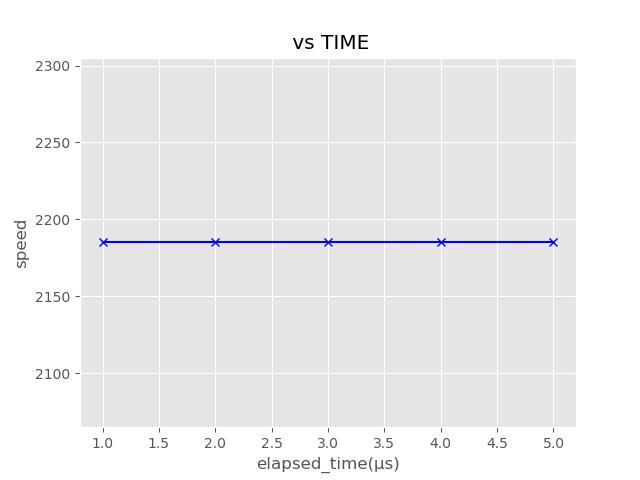
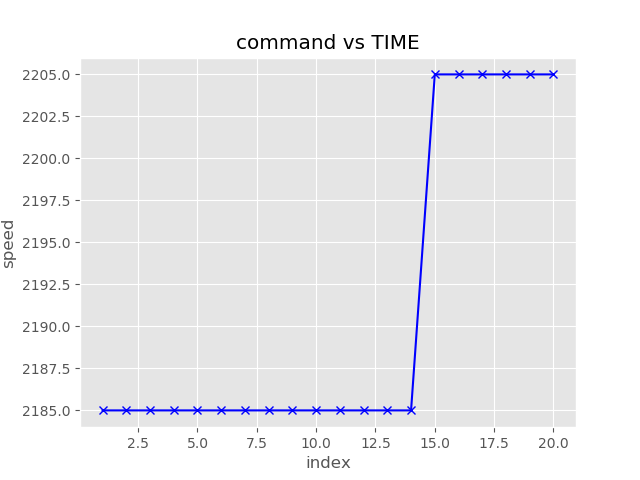
Finished: save plot after new data acquisition

diff --git a/NewRecordingMenu.py b/NewRecordingMenu.py
@@ -36,13 +36,13 @@ class NewRecordingMenu(tk.Frame):
         self.startStopFrame = tk.LabelFrame(self, text="START/STOP RECORDING", padx=5, pady=5)
         self.startStopFrame.pack(padx=10, pady=10)
 
-        self.startRecordingButton = tk.Button(self.startStopFrame, text='START', width=30, height=3,
+        self.startRecordingButton = tk.Button(self.startStopFrame, text='START', width=20, height=3,
                                               command=lambda: self.start_recording())
-        self.startRecordingButton.pack(side=tk.LEFT)
+        self.startRecordingButton.grid(row=0, column=0)
 
-        self.stopRecordingButton = tk.Button(self.startStopFrame, text='STOP', width=30, height=3, state=tk.DISABLED,
+        self.stopRecordingButton = tk.Button(self.startStopFrame, text='STOP', width=20, height=3, state=tk.DISABLED,
                                              command=lambda: self.stop_recording())
-        self.stopRecordingButton.pack(side=tk.RIGHT)
+        self.stopRecordingButton.grid(row=0, column=1)
 
         # SAVE RECORDING FRAME
         self.saveFrame = tk.LabelFrame(self, text="SAVE RECORDING", pady=10)
@@ -60,23 +60,8 @@ class NewRecordingMenu(tk.Frame):
         self.saveButton.grid(row=0, column=2)
 
         # PLOT RECORDING FRAME
-        self.plotRecordingFrame = tk.LabelFrame(self, text="PLOT", padx=5, pady=5)
+        self.plotRecordingFrame = tk.LabelFrame(self, text="PLOT RECORDING", padx=5, pady=5)
         self.plotRecordingFrame.pack(padx=10, pady=10)
-
-        # # CHECK BOX FRAME
-        # self.checkBoxFrame = tk.LabelFrame(self.plotRecordingFrame, padx=5, pady=5, borderwidth=0, highlightthickness=0)
-        # self.checkBoxFrame.pack(side=tk.LEFT)
-        #
-        # self.c = tk.Checkbutton(self.checkBoxFrame, text="Command", variable=self.command_check_button, anchor='w',
-        #                         width=10)
-        # self.c.grid(row=0, column=0)
-        #
-        # self.p = tk.Checkbutton(self.checkBoxFrame, text="Position", variable=self.position_check_button, anchor='w',
-        #                         width=10)
-        # self.p.grid(row=1, column=0)
-        # self.s = tk.Checkbutton(self.checkBoxFrame, text="Speed", variable=self.speed_check_button, anchor='w',
-        #                         width=10)
-        # self.s.grid(row=2, column=0)
 
         # PLOT BUTTON (ADDED TO PLOT RECORDING FRAME)
         self.plotCommandButton = tk.Button(self.plotRecordingFrame, text='COMMAND', width=20, height=3,
@@ -105,7 +90,6 @@ class NewRecordingMenu(tk.Frame):
         _class(self.new, plot_type, self)
 
     def save_data(self):
-        # NOT COMPLETE
         filename = self.fileNameTextField.get()
         if filename == "":
             tk.messagebox.showerror("Error !", "Filename not defined !")
@@ -145,9 +129,6 @@ class NewRecordingMenu(tk.Frame):
         self.startRecordingButton.config(state='normal')
         self.stopRecordingButton.config(state='disabled')
         self.saveButton.config(state='normal')
-        self.plotCommandButton.config(state='disabled')
-        self.plotPositionButton.config(state='disabled')
-        self.plotSpeedButton.config(state='disabled')
 
         # DATA ACQUISITION SIMULATION
         self.simulation_step = 1
@@ -156,10 +137,8 @@ class NewRecordingMenu(tk.Frame):
 
     def simulate_real_time_data_acquisition(self):
         while self.isRecording:
-            # print(self.simulation_df.head())
             df = self.simulation_df.iloc[:self.simulation_step, :]
             self.df = df
-            # print(self.df.head())
             time.sleep(self.frequency)
             self.simulation_step += 1
             print(self.df.tail(1))

diff --git a/RealTimePlotWindow.py b/RealTimePlotWindow.py
@@ -55,18 +55,24 @@ class RealTimePlotWindow(tk.Tk):
         self.plot()
 
     def plot(self):
+        self.ax.cla()
+
+        x = self.parent.df['index']
+        y = self.parent.df[self.plot_type]
+
+        self.ax.plot(x, y, marker='x', color='blue')
+        self.ax.grid(True)
+
+        self.ax.set_title(self.plot_type.upper() + " vs TIME", fontsize=16)
+        self.ax.set_xlabel("index")
+        self.ax.set_ylabel(self.plot_type)
+
+        self.graph.draw()
+
         if self.parent.isRecording:
-            self.ax.cla()
-            self.ax.grid(True)
-
-            x = self.parent.df['index']
-            y = self.parent.df[self.plot_type]
-
-            self.ax.plot(x, y, marker='o', color='orange')
-            self.graph.draw()
-
-            if self.parent.simulation_step < 60:
-                self.graph.get_tk_widget().after(self.parent.frequency*1000, self.plot)   #NOT self.plot()
+            self.graph.get_tk_widget().after(self.parent.frequency * 1000, self.plot)  # NOT self.plot()
+            # if self.parent.simulation_step < 60:
+            #     self.graph.get_tk_widget().after(self.parent.frequency*1000, self.plot)   #NOT self.plot()
         else:
             self.savePlotButton.config(state='normal')
 
@@ -85,8 +91,8 @@ class RealTimePlotWindow(tk.Tk):
             plt.plot(x, y, marker='x', color='blue')
             plt.grid(True)
 
-            plt.title( " vs TIME")
-            plt.xlabel("elapsed_time(µs)")
+            plt.title(self.plot_type + " vs TIME")
+            plt.xlabel("index")
             plt.ylabel('speed')
             plt.savefig(save_dir + "/" + filename + ".png")
 
